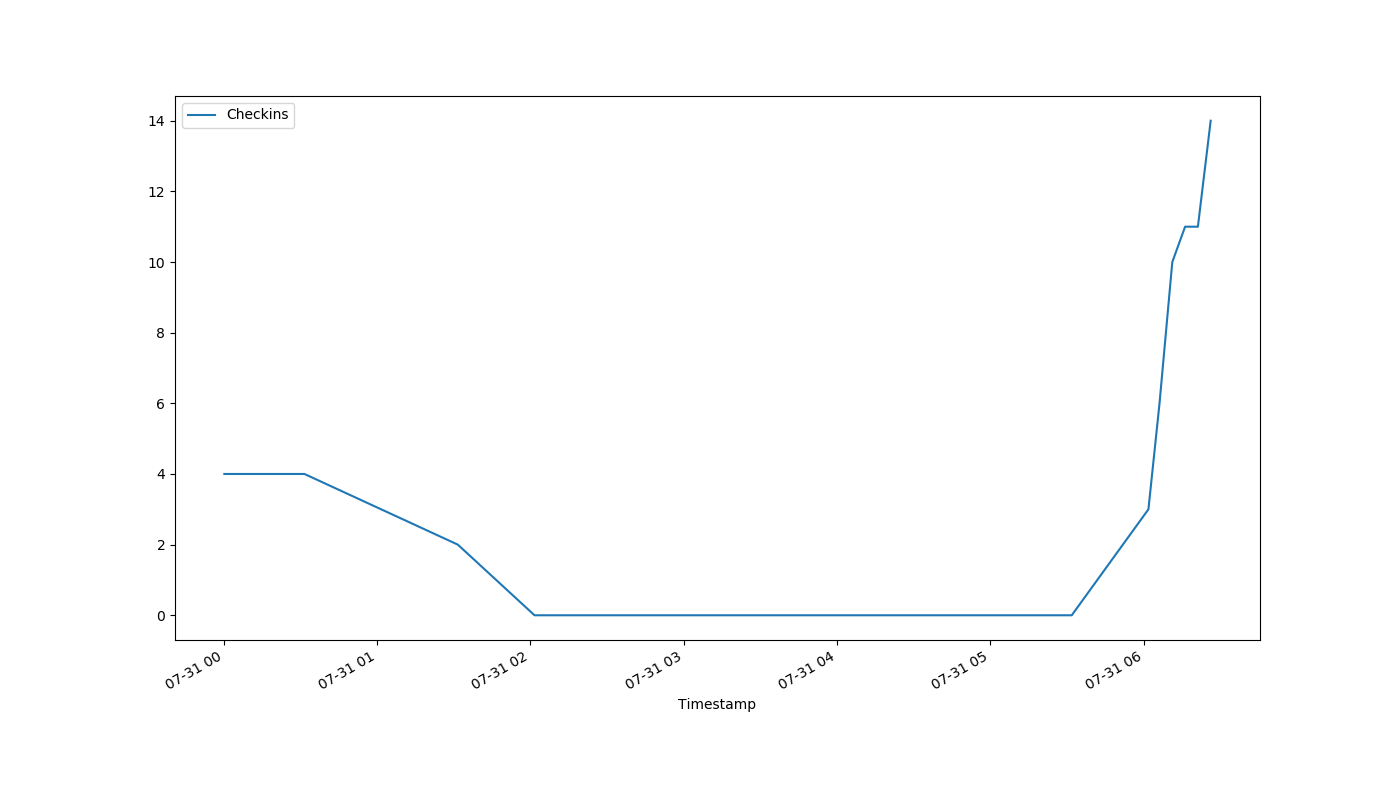
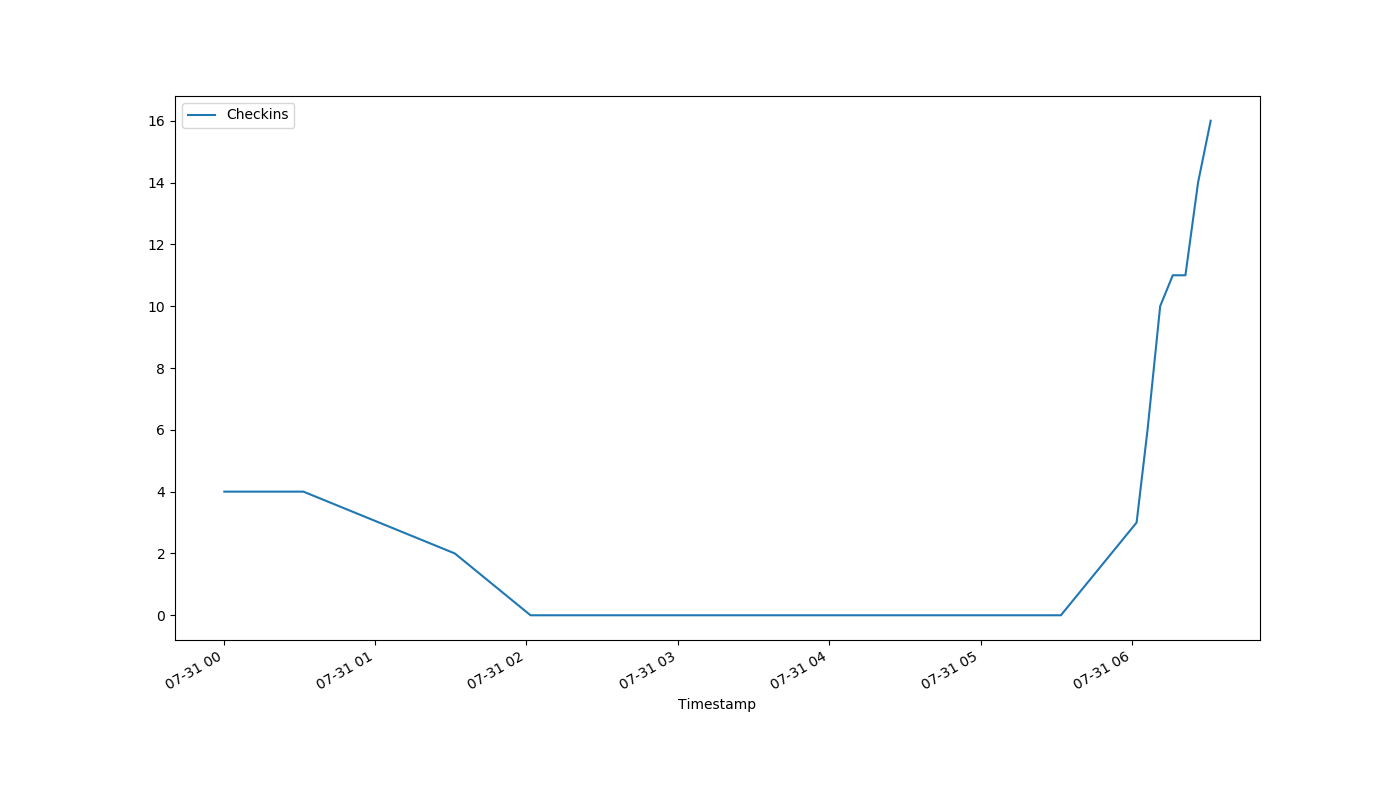
auto-Jul-31-06:32:22

diff --git a/index.html b/index.html
@@ -1,1 +1,1 @@
-<!DOCTYPE html><html><head><meta http-equiv="refresh" content="30"><link rel='stylesheet' href='holmcurrent.css'></head><body><p id='count'>14</p><div id='graph-wrap'><img id='graph' src='holmgraph-Jul-31.png'></div><p id='updated'>Last updated 06:27:02 / 06:26:10</p></body></html>
+<!DOCTYPE html><html><head><meta http-equiv="refresh" content="30"><link rel='stylesheet' href='holmcurrent.css'></head><body><p id='count'>16</p><div id='graph-wrap'><img id='graph' src='holmgraph-Jul-31.png'></div><p id='updated'>Last updated 06:32:02 / 06:31:11</p></body></html>
